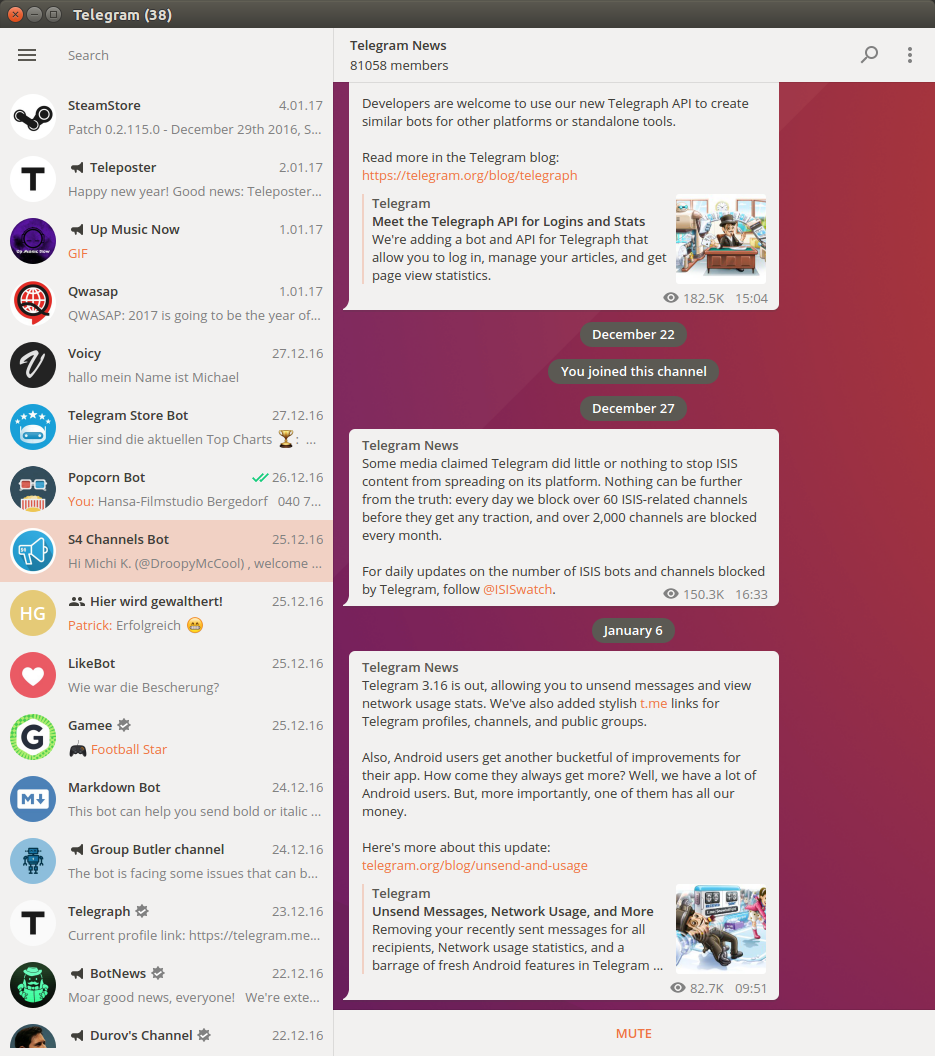
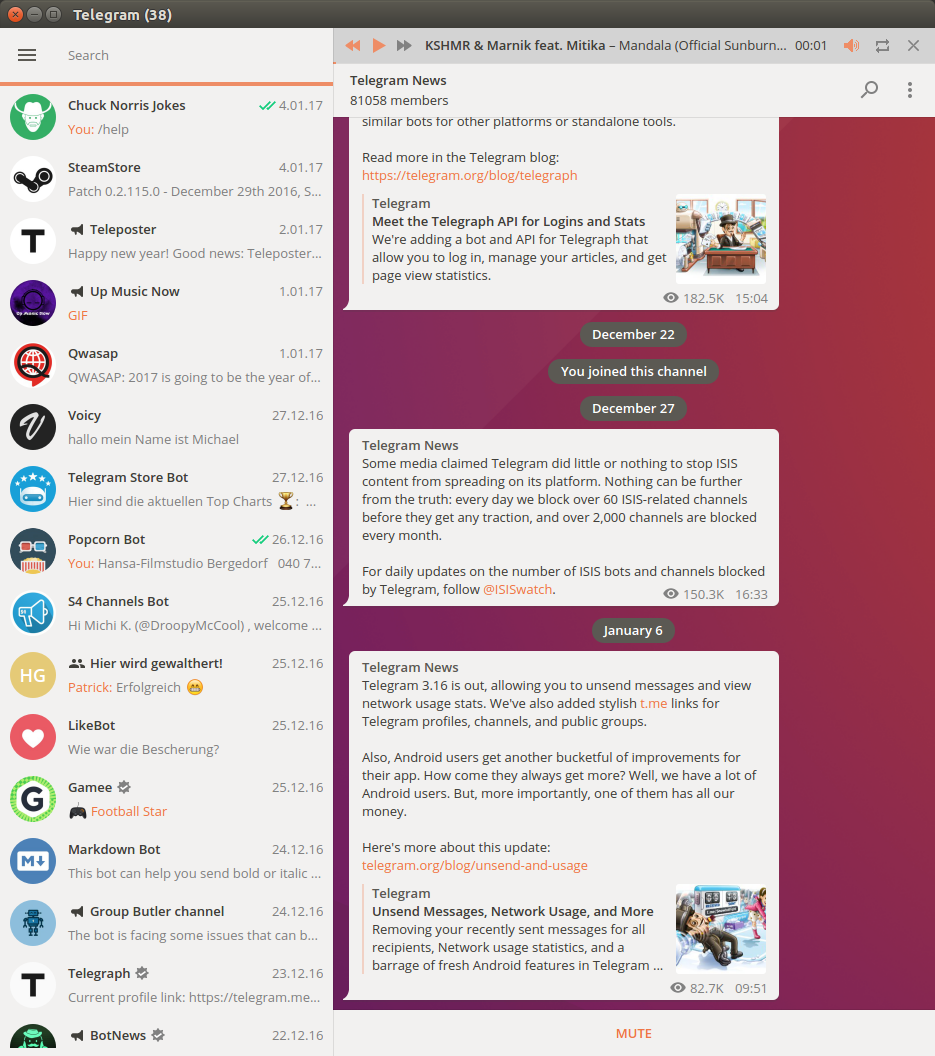
Update Readme and screenshot

Changed region(s): [[0.0, 0.0, 1.0, 1.0], [0.1861, 0.2812, 0.3102, 0.3125], [0.3102, 0.3125, 0.3412, 0.3438]]

diff --git a/README.md b/README.md
@@ -2,4 +2,4 @@
 ### Version 1.0
 A telegram desktop theme in stylish ubuntu design pattern.
 
-//![](ubuntu-light-telegram-theme.png)
+![](ubuntu-light-telegram-theme.png)
